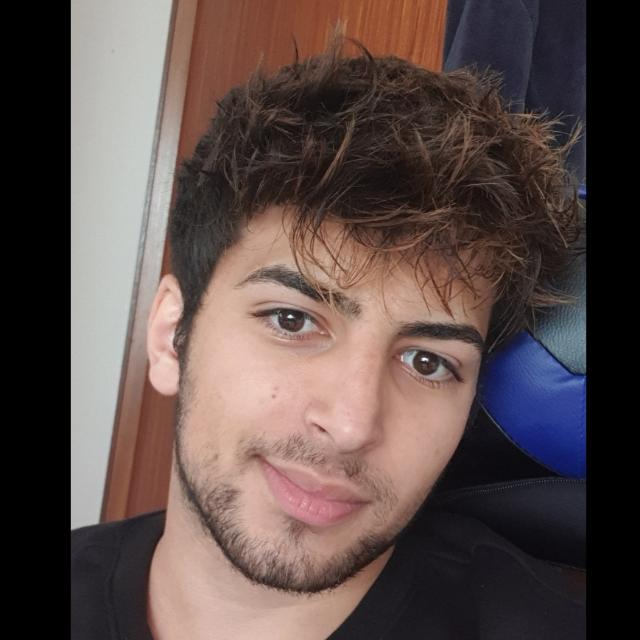
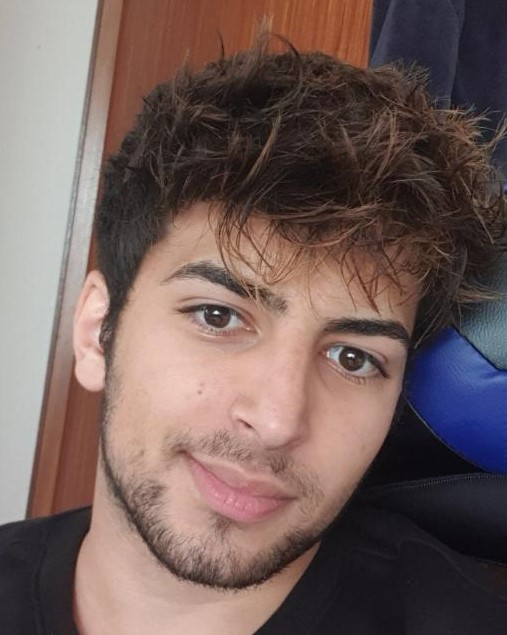
Bilder bearbeiten

diff --git a/public/LearnMore.html b/public/LearnMore.html
@@ -13,7 +13,7 @@
         <div class="inner split">
             <section>
                 <p>Hier Bild einfügen</p>
-                <img src="picture/Adam.jpg" alt="" />
+                <img src="picture/Adam2.jpg" alt="" />
             </section>
             <section>
                 <p>Hier Text einfügen</p>
